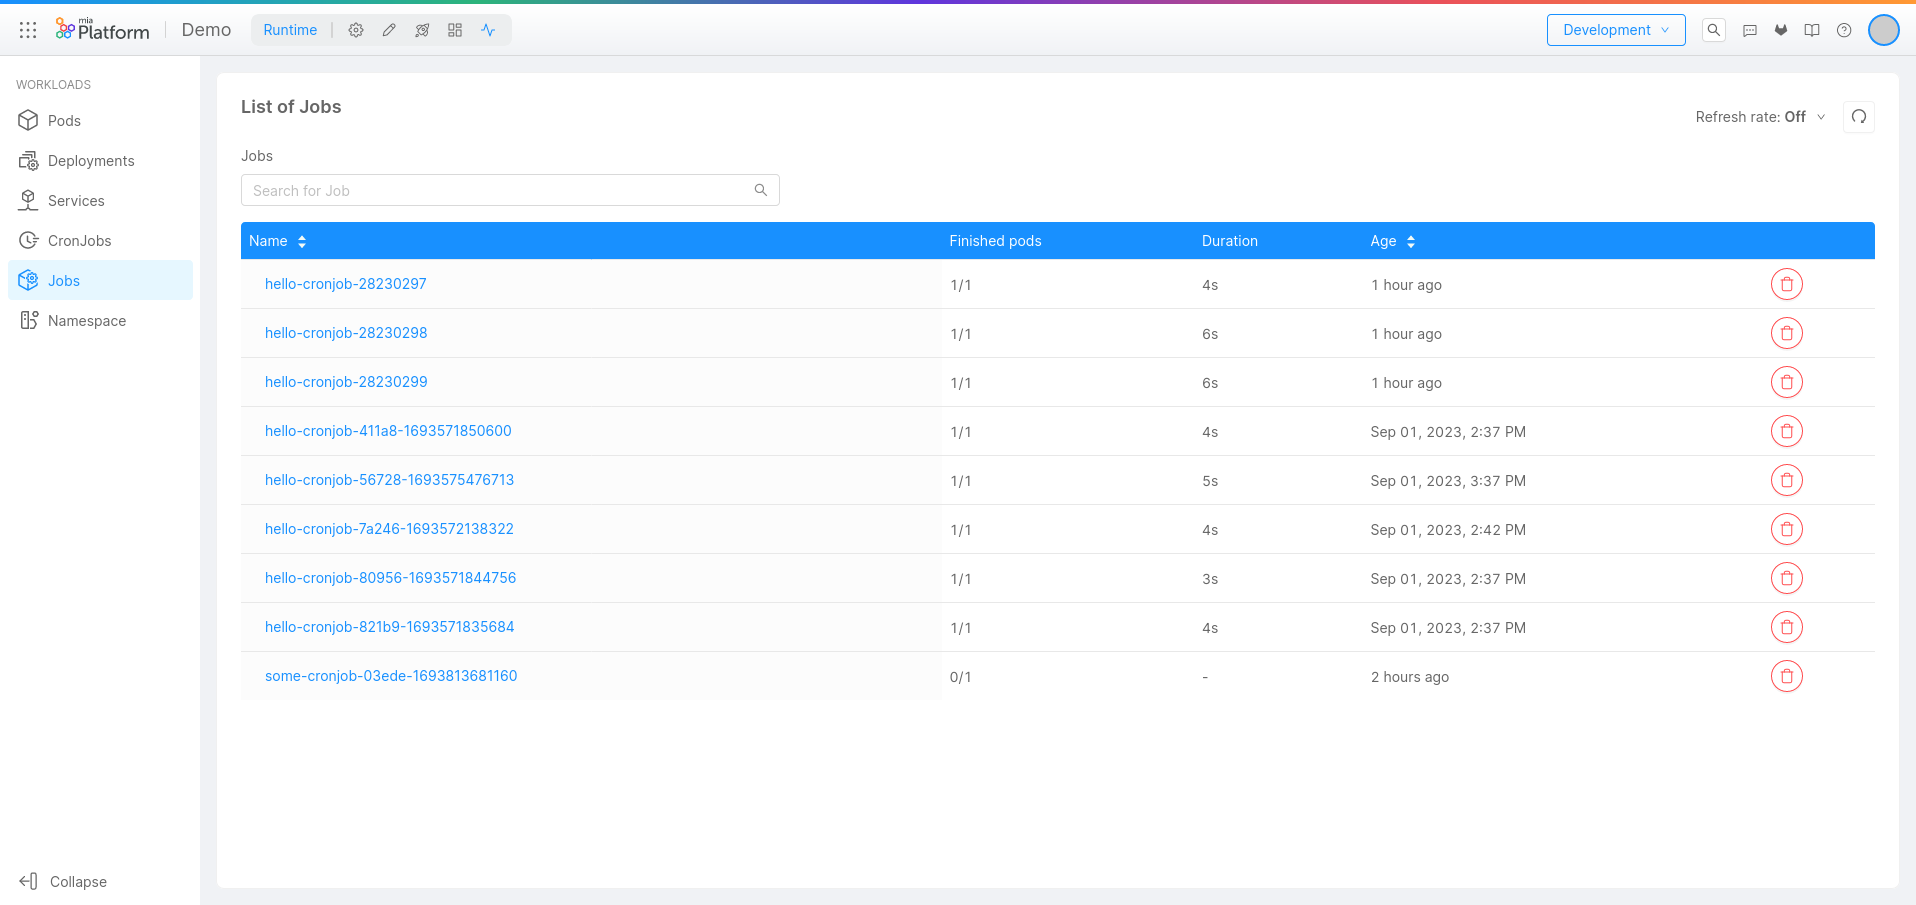
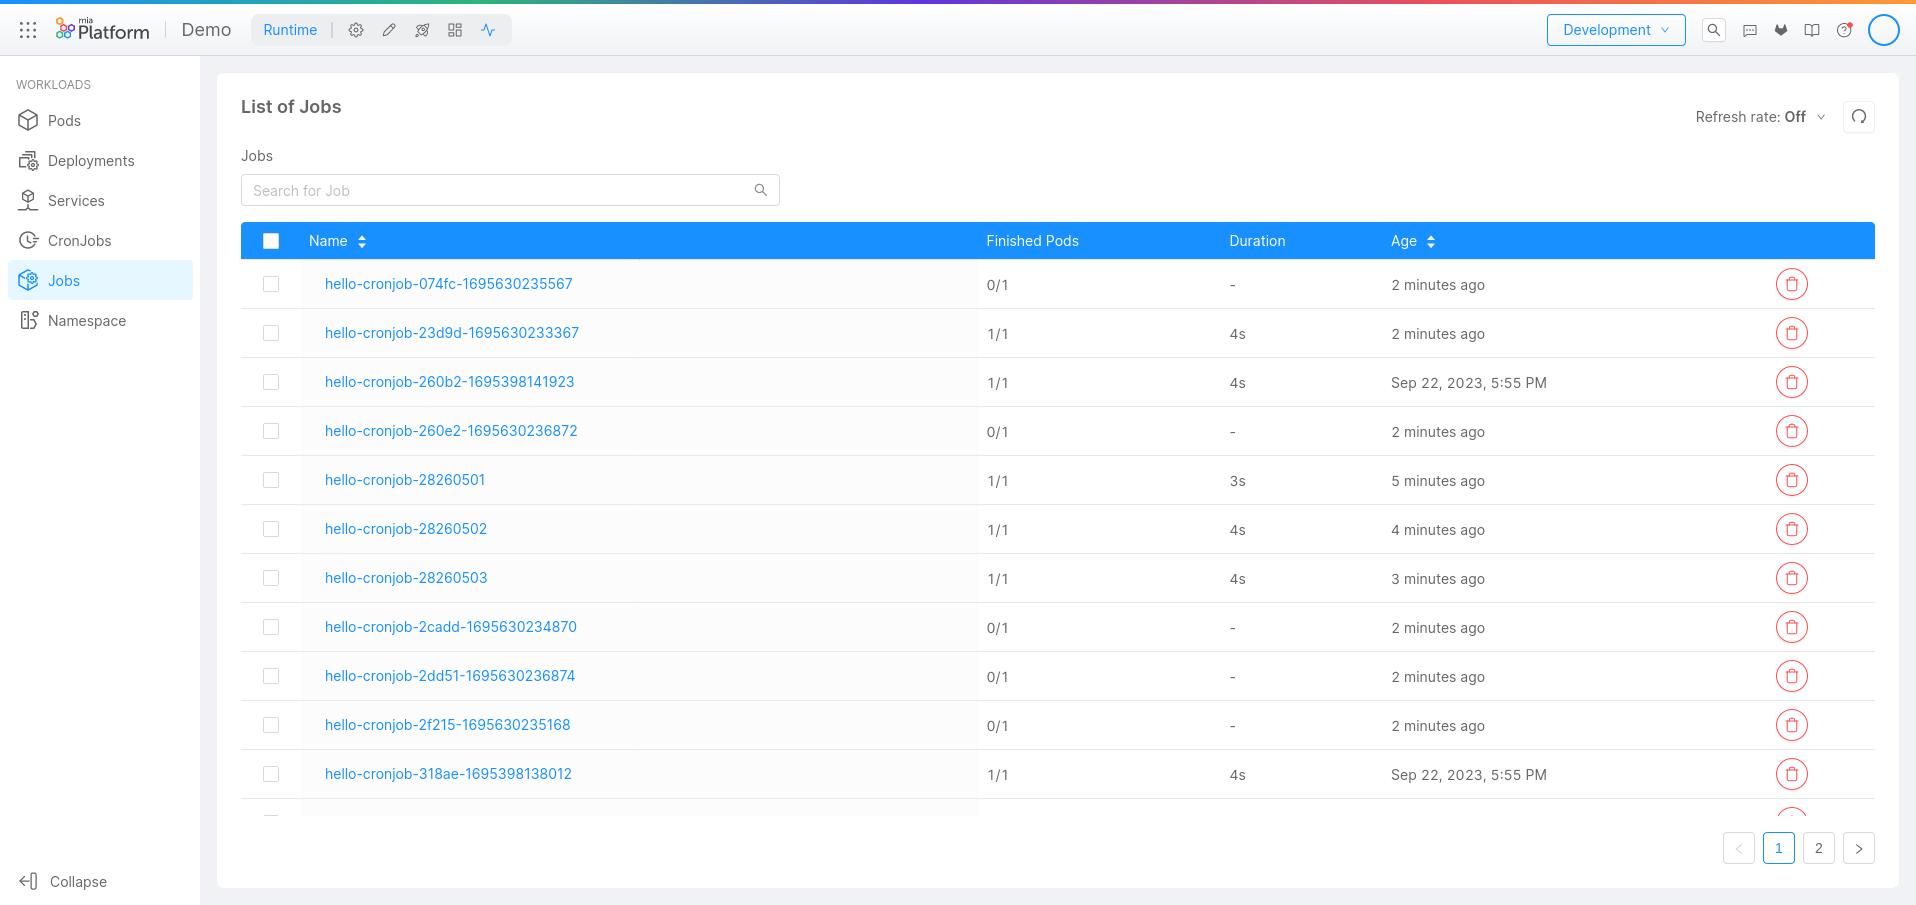
feat(SJFC-23): describe Job multiple deletion, update screenshots

diff --git a/docs/development_suite/monitoring/resources/jobs.md b/docs/development_suite/monitoring/resources/jobs.md
@@ -20,7 +20,7 @@ The table presented here shows the following information:
 
 ![list_of_jobs](../img/jobs_list.png)
 
-## Deleting a Job
+## Deleting Jobs
 
 :::info
 
@@ -28,18 +28,22 @@ This feature is only available to users with sufficient permissions. For more in
 
 :::
 
-By clicking on the **Delete button** on the last column of the Job table, the Job will be permanently deleted.
-
-A modal will ask for confirmation for the action to be performed.
-
-Any related resources, such as Pods, will be marked for deletion, and Kubernetes may [cascading delete](https://kubernetes.io/docs/concepts/architecture/garbage-collection/#cascading-deletion) them at any time.
-
 :::warning
 
 The deletion is permanent, therefore make sure to save elsewhere any important information before deleting a Job.
 Please note that also the related Pod(s) are marked for deletion, along with their information such as logs.
 
 :::
+
+You can delete a single Job by clicking on the **Delete button** on the last column of the Job table.
+
+You can also delete multiple Jobs at the same time, in this case select the checkbox on the left of the Jobs you want to delete and click on the **Delete Jobs** button that appears at the bottom of the table.
+
+![list_of_selected_jobs](../img/jobs_list_selected.png)
+
+A modal will ask for confirmation for the action to be performed, and inform you on the operation outcome.
+
+Any related resources, such as Pods, will be marked for deletion, and Kubernetes may [cascading delete](https://kubernetes.io/docs/concepts/architecture/garbage-collection/#cascading-deletion) them at any time.
 
 ## Inspecting a Job
 
